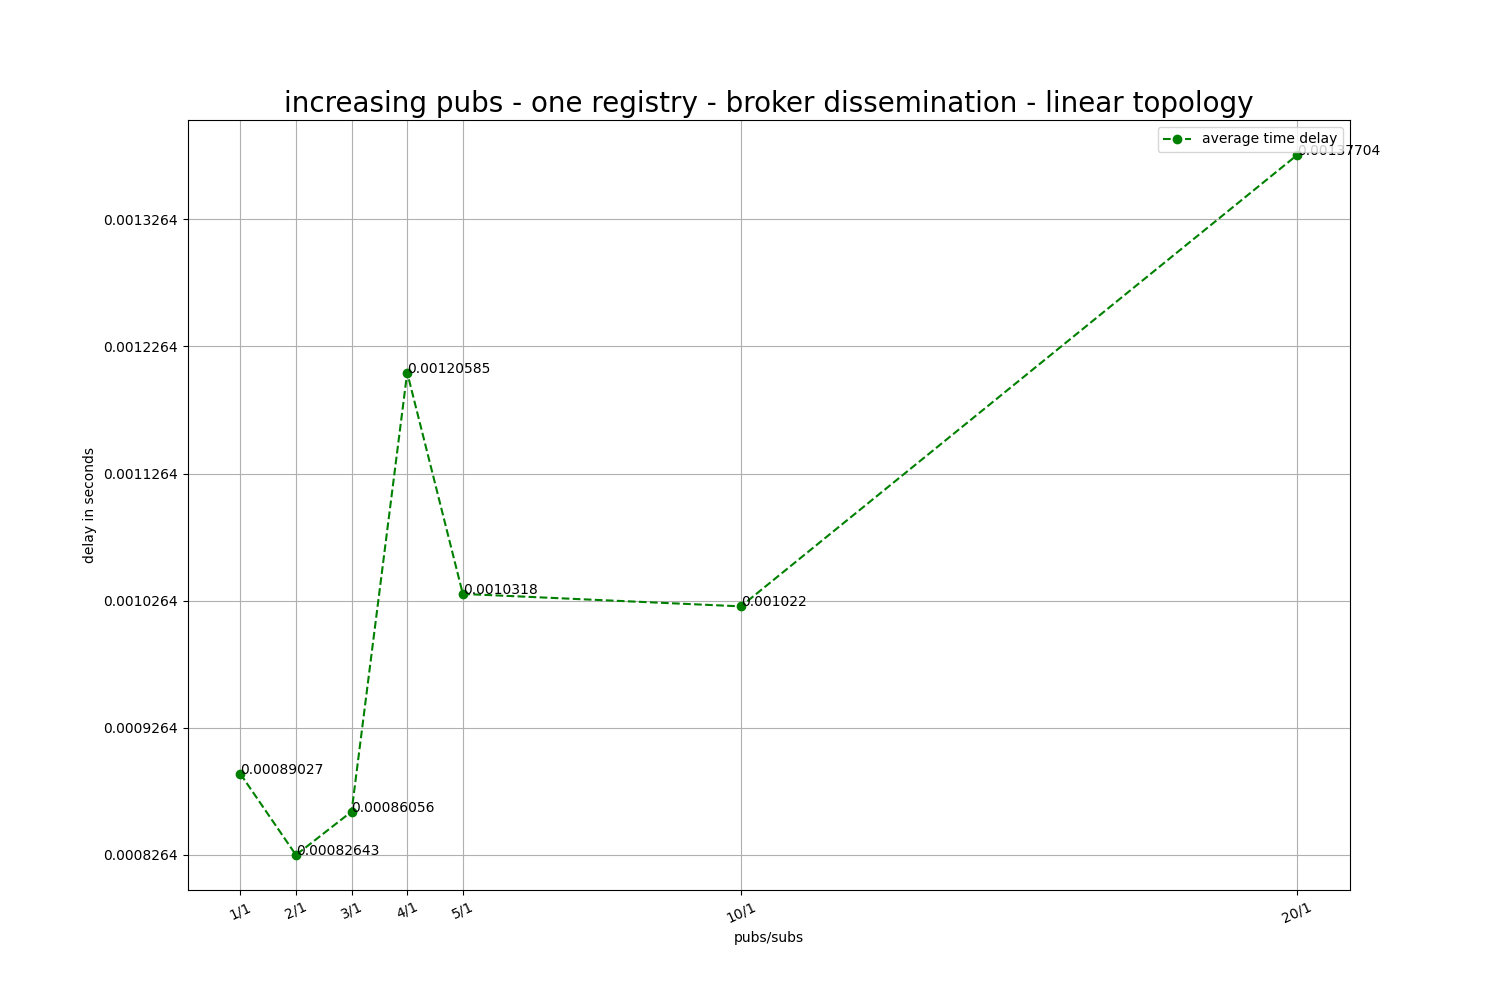
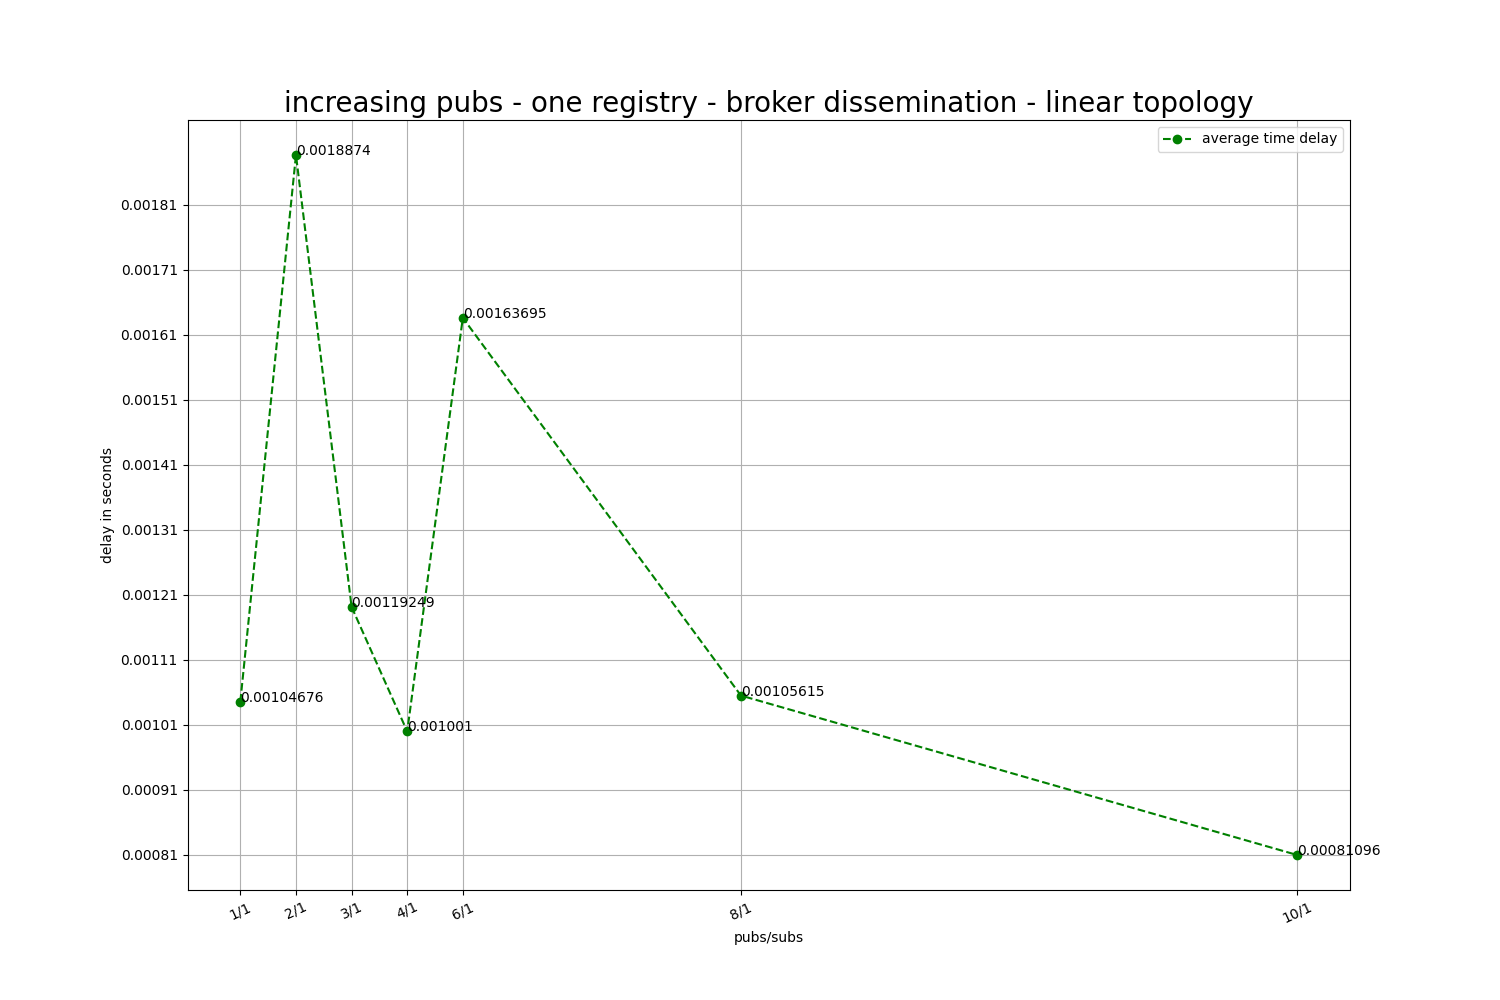
update

diff --git a/cs6381_registryclient.py b/cs6381_registryclient.py
@@ -15,8 +15,6 @@ class Registry:
     def __init__(self, role, address="localhost", port=None, strategy=None, client=None, registry_ip="10.0.0.1"):
         self.context = zmq.Context()
         self.socket = self.context.socket(zmq.REQ)
-        # self.socket.setsockopt(zmq.RCVTIMEO, 1000)  # set timeout of 1 seconds
-        # self.socket_should_start = self.context.socket(zmq.SUB)
         self.socket_registry_data = self.context.socket(zmq.SUB)
         self.poller = zmq.Poller()
 
@@ -51,17 +49,13 @@ class Registry:
                 print(f"registry client {self.role}, already connected to valid server: {self.serverIP}")
                 pass
             else:
-                server_ip = random.choice(children).split(":")[0]
-                self.serverIP = server_ip
-                self.connect_server()
-                if self.role == constants.SUB and self.topics:
-                    self.topic_thread.join()
-                    # thread = threading.Thread(target=self.get_new_registry_data, args=(self.topics,))
-                    # thread.setDaemon(True)
-                    self.topic_thread.start()
-        # elif self.serverIP:
-        #     self.disconnect_server()
-
+                # server_ip = random.choice(children).split(":")[0]
+                for server_ip in children:
+                    server_ip = server_ip.split(":")[0]
+                    self.serverIP = server_ip
+                    self.connect_server()
+                    if self.role == constants.SUB and self.topics:
+                        self.socket_registry_data.connect('tcp://{}:{}'.format(server_ip, constants.REGISTRY_PUB_PORT_NUMBER))
         print("registries children: {}".format(children))
 
     def get_new_registry_data(self, topics):
@@ -129,7 +123,7 @@ class Registry:
             if message:
                 print("registry response received for register service: %s" % message)
                 print("registered broker: {}".format(self.client))
-                # self.get_watcher(constants.KAZOO_BROKER_PATH, None)
+                self.get_watcher(constants.KAZOO_BROKER_PATH, None)
                 self.client.start()
         except Exception:
             print("must start Registry first!")
@@ -182,14 +176,17 @@ class Registry:
         self.socket.send_string('{} {} {} {}'.format(constants.REGISTER, self.role, self.address, self.port))
         message = self.socket.recv_string(0)
         print(f"register_subscriber message received: {message}")
-        success, topo, pubs, subs, brokers, registries = message.split(" ")
+        success, *meta_data = message.split(" ")
+        print(meta_data[0])
+        if meta_data[0] != 'None':
+            topo, pubs, subs, brokers, registries = meta_data
         # used only for data file name creation
-        if success == "success":
-            self.topo = topo
-            self.num_pubs = pubs
-            self.num_subs = subs
-            self.num_brokers = brokers
-            self.num_registries = registries
+            if success == "success":
+                self.topo = topo
+                self.num_pubs = pubs
+                self.num_subs = subs
+                self.num_brokers = brokers
+                self.num_registries = registries
 
         if message:
             print("register_subscriber!!!!")

diff --git a/cs6381_registry.py b/cs6381_registry.py
@@ -56,7 +56,7 @@ class RegistryServer:
         self.subs = subs
         self.registries = registries
         self.wait = True
-        self.first_node = False
+        self.first_node = create
         self.debug = False
         self.create = create
 
@@ -89,8 +89,8 @@ class RegistryServer:
             if children_without_self and not self.create:
                 server_ip = random.choice(children_without_self).split(":")[0]
                 self.kad_ipaddr = server_ip
-            else:
-                self.create = True
+            # else:
+            #     self.create = True
 
         print("registries children: {}".format(children))
         print("kad_ipaddr: {}".format(self.kad_ipaddr))
@@ -118,7 +118,6 @@ class RegistryServer:
     def start_receiving(self):
         self.socket.bind('tcp://*:{}'.format(constants.REGISTRY_PORT_NUMBER))
 
-        print("start_receiving")
         if self.first_node:
             self.helper.set(constants.PUB_COUNT, self.pubs)
             self.helper.set(constants.SUB_COUNT, self.subs)
@@ -199,7 +198,7 @@ class RegistryServer:
             for topic in topics:
                 topic_connection = "%s %s" % (topic, connection)
                 print(f"NEW PUB TOPIC: {topic}")
-                # is_new_topic = self.helper.set_topic_index(topic_connection)
+                is_new_topic = self.helper.set_topic_index(topic_connection)
                 # if is_new_topic:
                 print("NOTIFYING SUBSCRIBERS OF NEW PUB FOR TOPIC: {} on registry node {}".format(topic_connection, self.ip))
                 self.socket_registry_data.send_string(topic_connection)

diff --git a/data.py b/data.py
@@ -15,7 +15,7 @@ class Data:
         self.topo = topo
         self.dissemination = dissemination
         self.files = []
-        self.nums = [1, 2, 3, 4, 5, 10, 20]
+        self.nums = [1, 2, 3, 4, 6, 8, 10]
         self.reg_nums = [1, 2, 4, 6, 8, 10]
         self.brokers_nums = [1, 2, 4, 6, 8, 10]
         self.headers = ["pubs/subs", "brokers", "registries", "average", "sub messages"]

diff --git a/kad_client.py b/kad_client.py
@@ -140,6 +140,6 @@ class KademliaClient:
         handler.setFormatter(formatter)
         self.logger.addHandler(handler)
         if debug:
-            self.logger.setLevel(logging.NOTSET)
+            self.logger.setLevel(logging.DEBUG)
         else:
             self.logger.setLevel(logging.WARNING)

diff --git a/cs6381_subscriber.py b/cs6381_subscriber.py
@@ -31,7 +31,7 @@ class Subscriber(object):
         self.port = port
         self.strategy = strategy
         self.uuid = cs6381_util.create_uuid()
-        self.iterations = 500
+        self.iterations = 5000
         self.topics = {}
         self.cb = None
         self.messages = {}
